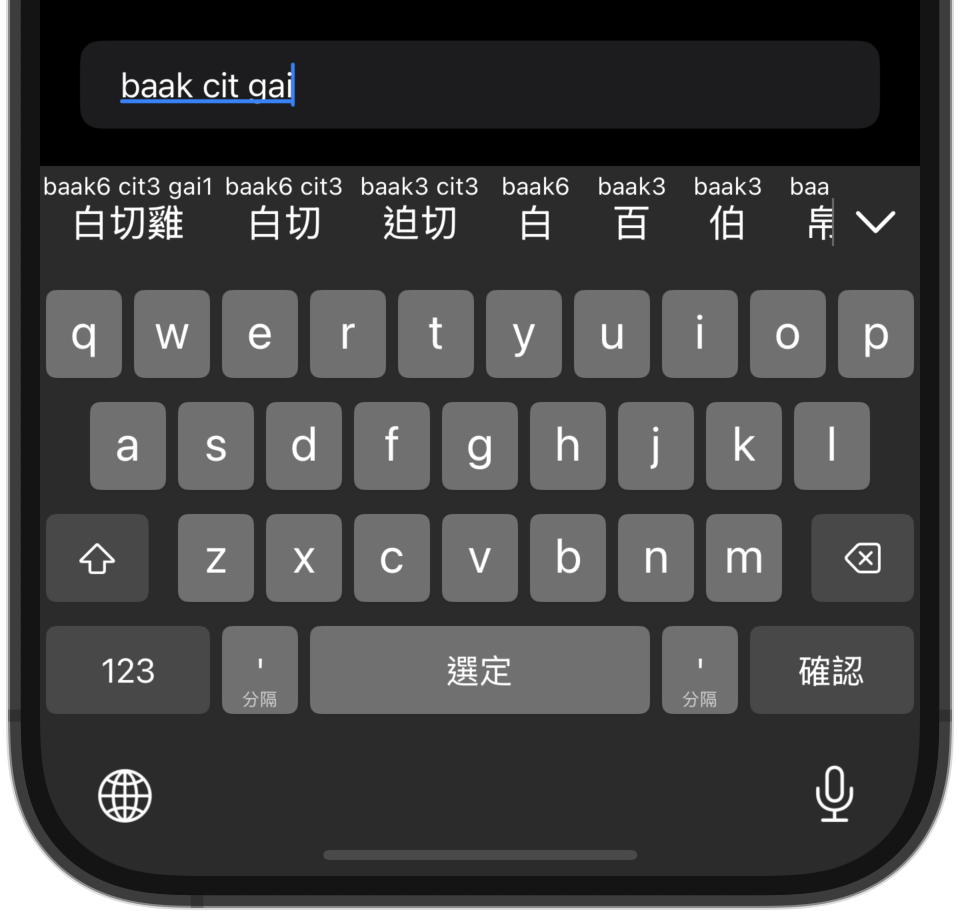
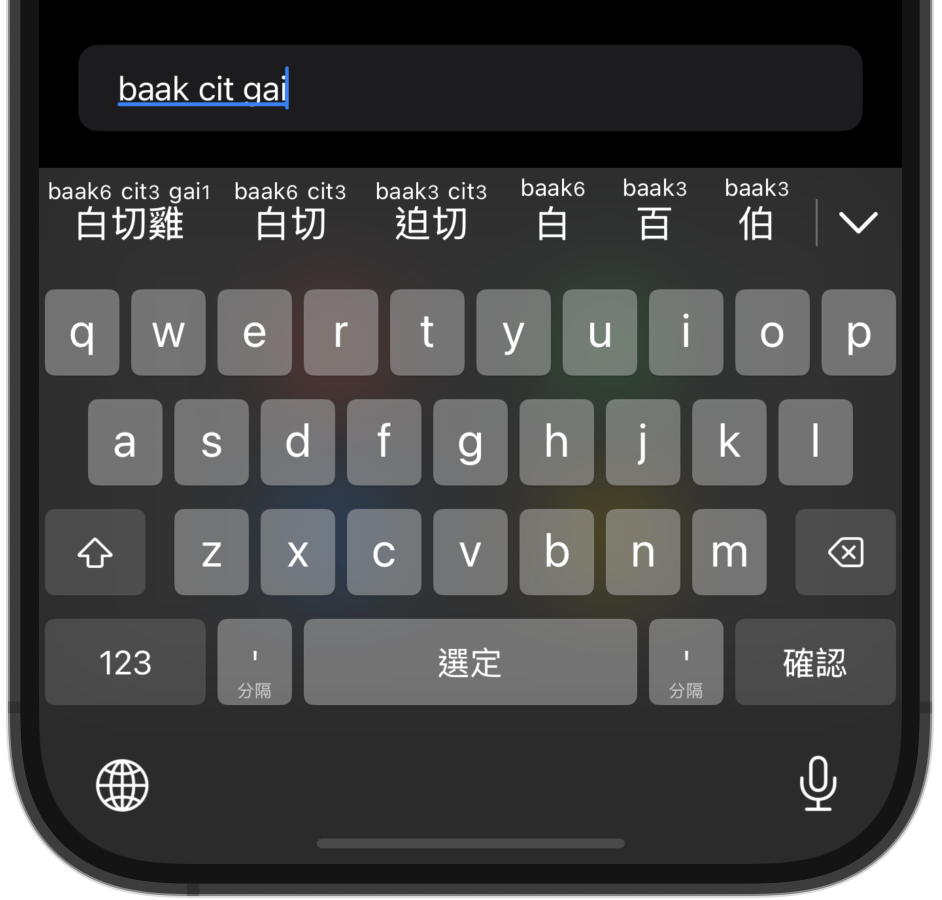
Update iPhone screenshot images

diff --git a/index.html b/index.html
@@ -79,7 +79,7 @@
                 <br>
                 <p>
                         <picture>
-                                <source srcset="images/screenshot-mac-alt.png" media="(prefers-color-scheme: dark)">
+                                <source srcset="images/screenshot-mac-dark.png" media="(prefers-color-scheme: dark)">
                                 <img class="screenshot" src="images/screenshot-mac.png" alt="macOS Screenshot">
                         </picture>
                 </p>
